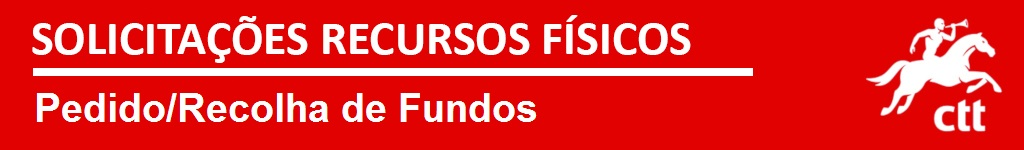
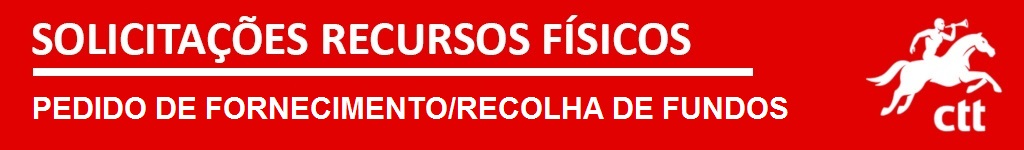
Add files via upload

Changed region(s): [[0.0312, 0.6133, 0.7812, 0.8267]]

diff --git a/seg-etv/index.html b/seg-etv/index.html
@@ -13,7 +13,6 @@
 	//$(function() {
 	//$("#text-one").load("instalações.txt");
 	//});
-
 	function atualizar() {
 		//avisos para permissão internet explorer
 		permissão.style.display = "none";
@@ -21,7 +20,6 @@
 		co.style.display = "none";
 		cpostal.style.display = "none";
 		localidade.style.display = "none";
-
 		//obter tipo
 		var tipo = document.getElementsByName('tipo');
 		for (var i = 0, length = tipo.length; i < length; i++)
@@ -42,7 +40,6 @@
 				break;
 			}
 		}
-
 		//obter filtro
 		var filtro = document.getElementsByName('filtro');
 		for (var i = 0, length = filtro.length; i < length; i++)
@@ -83,14 +80,12 @@
 			}
 		}
 		//alert(filtro)
-
 	}
 	function submeter(){
 		var tipo = ""
 		var data = ""
 		var instalação = ""
 		var erro = ""
-
 		//obter tipo
 		var tipo = document.getElementsByName('tipo');
 		for (var i = 0, length = tipo.length; i < length; i++)
@@ -99,22 +94,20 @@
 			{
 				// do whatever you want with the checked radio
 				if(tipo[i].value == "pedido"){
-					var tipo = "Pedido de Fundos";
+					var tipo = "Pedido de Fornecimento de Fundos";
 				}
 				if(tipo[i].value == "recolha"){
-					var tipo = "Recolha de Fundos";
+					var tipo = "Pedido de Recolha de Fundos";
 				}
 				if(tipo[i].value == "ambos"){
-					var tipo = "Pedido de fundos e Recolha de fundos";
+					var tipo = "Pedido de Fornecimento/Recolha de fundos";
 				}
 				// only one radio can be logically checked, don't check the rest
 				break;
 			}
 		}
-
 		//obter DATA
 		var data = document.getElementById("data").value;
-
 		//obter filtro
 		var filtro = document.getElementsByName('filtro');
 		for (var i = 0, length = filtro.length; i < length; i++)
@@ -154,7 +147,6 @@
 				break;
 			}
 		}
-
 		//obter instalação
 		if(filtro == "nome"){
 			var e = document.getElementById("nome");
@@ -179,14 +171,12 @@
 			var value = e.options[e.selectedIndex].value;
 			var instalação = e.options[e.selectedIndex].text;
 		}
-
 		if (instalação == ""){
 			erro = "instalação não definida"
 		}
 		if (data == ""){
 			erro = "Data não definida"
 		}
-
 		if (instalação != ""){
 			var instTotal = instalação.length;
 			var posIMO = instalação.indexOf("#");
@@ -194,14 +184,12 @@
 			var instalação = instalação.substring(0,posIMO)
 			//alert(cttimo)
 		}
-
 		if (erro !="" ){
 			alert(erro)
 		}
-
 		if (erro =="" ){
 			var assunto = "mailto:"+"&cc=imotalismaservice"+"@"+"ctt.pt"+"?subject="+encodeURIComponent(tipo)+" - "+encodeURIComponent(instalação)+" - "+encodeURIComponent(data);
-			var corpo = "&body=■ FORMULÁRIO DE PEDIDO/RECOLHA DE FUNDOS"+"%0D%0A%0D%0ATIPO: "+encodeURIComponent(tipo)+"%0D%0ADATA: "+encodeURIComponent(data)+"%0D%0AINSTALAÇÃO: "+encodeURIComponent(instalação)+"%0D%0ACTTIMO: "+encodeURIComponent(cttimo)+"%0D%0A%0D%0A%0D%0A%0D%0A____________________________________________%0D%0ADEVE ADICIONAR OS ANEXOS ANTES DE ENVIAR O EMAIL";
+			var corpo = "&body=■ FORMULÁRIO DE PEDIDO DE FORNECIMENTO/RECOLHA DE FUNDOS"+"%0D%0A%0D%0ATIPO: "+encodeURIComponent(tipo)+"%0D%0ADATA: "+encodeURIComponent(data)+"%0D%0AINSTALAÇÃO: "+encodeURIComponent(instalação)+"%0D%0ACTTIMO: "+encodeURIComponent(cttimo)+"%0D%0A%0D%0A%0D%0A%0D%0A____________________________________________%0D%0ADEVE ADICIONAR OS ANEXOS ANTES DE ENVIAR O EMAIL";
 			var email = assunto+corpo;
 			window.location.href = email;
 		}
@@ -304,7 +292,6 @@ div.descrição {
 	font-family: arial;
 	font-weight: bold;
 }
-
 input.data {
 	width: 200px;
 	-background-color: rgb(222,0,0);
@@ -313,7 +300,6 @@ input.data {
 	font-family: arial;
 	font-weight: bold;
 }
-
 select.instalação {
 	width: 1000px;
 	-background-color: rgb(222,0,0);
@@ -322,9 +308,8 @@ select.instalação {
 	font-family: arial;
 	font-weight: bold;
 }
-
 div.individualradio {
-	width: 410px;
+	width: 810px;
 	-background-color: rgb(222,0,0);
 	-color: white;
 	padding: 5px;
@@ -445,15 +430,15 @@ a:hover, a:active {
 				</div>
 				<br>
 				<div class="individualradio" id="descCategoria">
-					<input class="radios" type="radio" checked="checked" name="tipo" value="pedido" onchange="atualizar()"> PEDIDO DE FUNDOS
+					<input class="radios" type="radio" checked="checked" name="tipo" value="pedido" onchange="atualizar()"> PEDIDO DE FORNECIMENTO DE FUNDOS
 				</div>
 
 				<div class="individualradio" id="descCategoria">
-					<input class="radios" type="radio" name="tipo" value="recolha" onchange="atualizar()"> RECOLHA DE FUNDOS
+					<input class="radios" type="radio" name="tipo" value="recolha" onchange="atualizar()"> PEDIDO DE RECOLHA DE FUNDOS
 				</div>
 
 				<div class="individualradio" id="descCategoria">
-					<input class="radios" type="radio" name="tipo" value="ambos" onchange="atualizar()"> PEDIDO DE FUNDOS E RECOLHA DE FUNDOS
+					<input class="radios" type="radio" name="tipo" value="ambos" onchange="atualizar()"> PEDIDO DE FORNECIMENTO/RECOLHA DE FUNDOS
 				</div>
 			</div>
 			<br>
@@ -9993,34 +9978,35 @@ a:hover, a:active {
 				<OPTION>ZAMBUJEIRA DO MAR - 9904613 - POSTO ZAMBUJEIRA DO MAR #41544</OPTION>
 				<OPTION>ZEBREIRA - 9905420 - POSTO ZEBREIRA #23409</OPTION>
 			</select>
-		</div>
-		<br>
+					</div>
+					<br>
 
-			<div class="submete" align="center" onclick="" id="submet" onfocus="infoSubmeter()">
-					<a href="template pedido de fundos.xlsx" download="template pedido de fundos.xlsx">
-				DESCARREGAR TEMPLATE PARA PEDIDO DE FUNDOS
+
+
+
+					<div class="individual3" align="center">
+						<div class="submete" align="center" onclick="" id="submet" onfocus="infoSubmeter()">
+								<a href="template pedido de fundos.xlsx" download="template pedido de fundos.xlsx">
+							DESCARREGAR TEMPLATE PARA PEDIDO DE FUNDOS
+								</a>
+						</div>
 					</a>
-			</div>
-		</a>
+						<br>
 
 
-		<div class="individual3" align="center">
-			<br>
+						<div class="submeter" align="center" onclick="submeter()" id="submeterPedido" onfocus="infoSubmeter()">
+							GERAR EMAIL
+						</div>
+						<br>
+				</div>
+				<br>
+						<div class="foot" align="right">
+							PEDIDO/RECOLHA DE FUNDOS v1.0
+						</div>
+						<br><br>
 
+					</div>
 
-			<div class="submeter" align="center" onclick="submeter()" id="submeterPedido" onfocus="infoSubmeter()">
-				GERAR EMAIL
-			</div>
-			<br>
-	</div>
-	<br>
-			<div class="foot" align="right">
-				PEDIDO/RECOLHA DE FUNDOS v1.0
-			</div>
-			<br><br>
-
-		</div>
-
-	</div>
-</body>
-</html>
+				</div>
+			</body>
+			</html>
